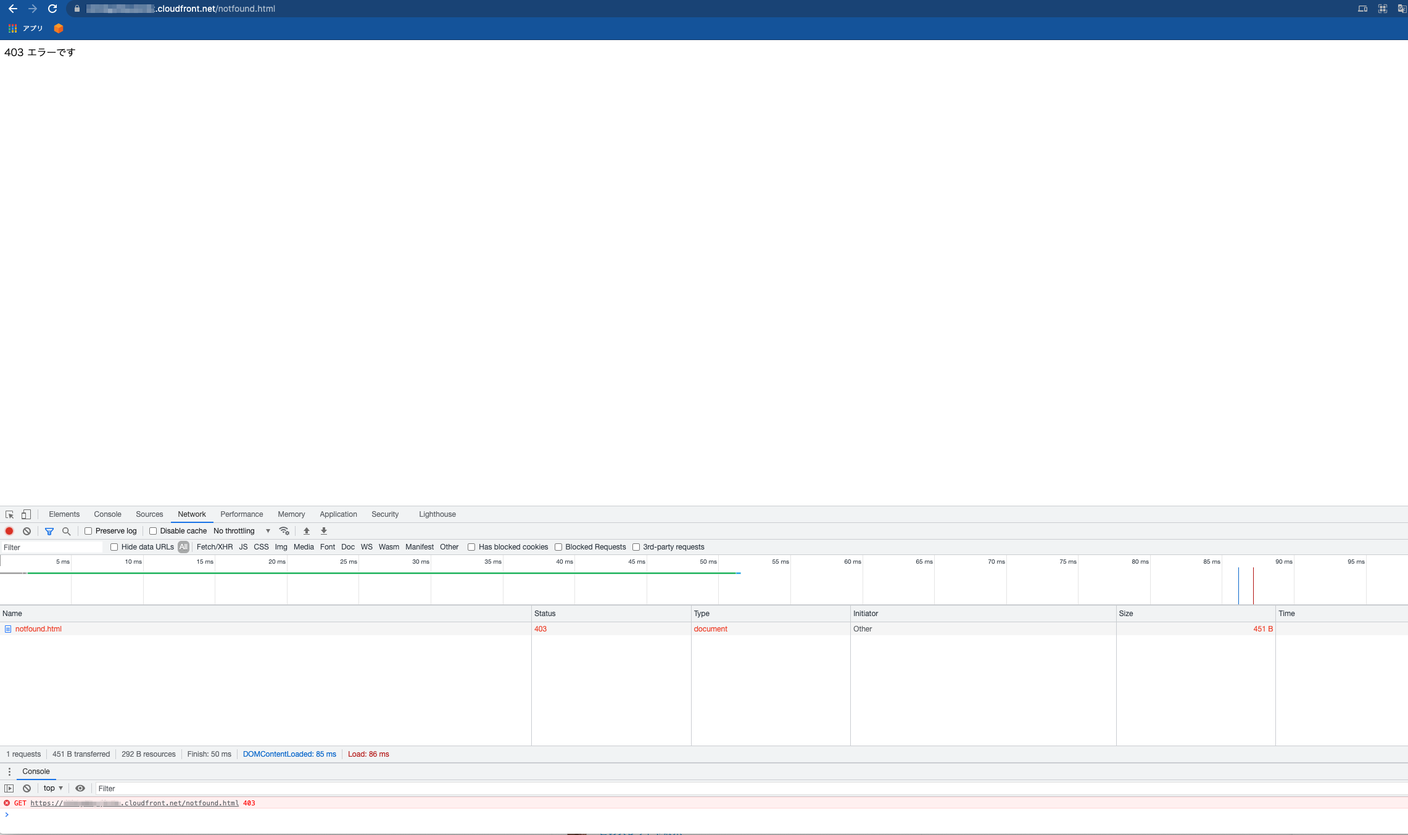
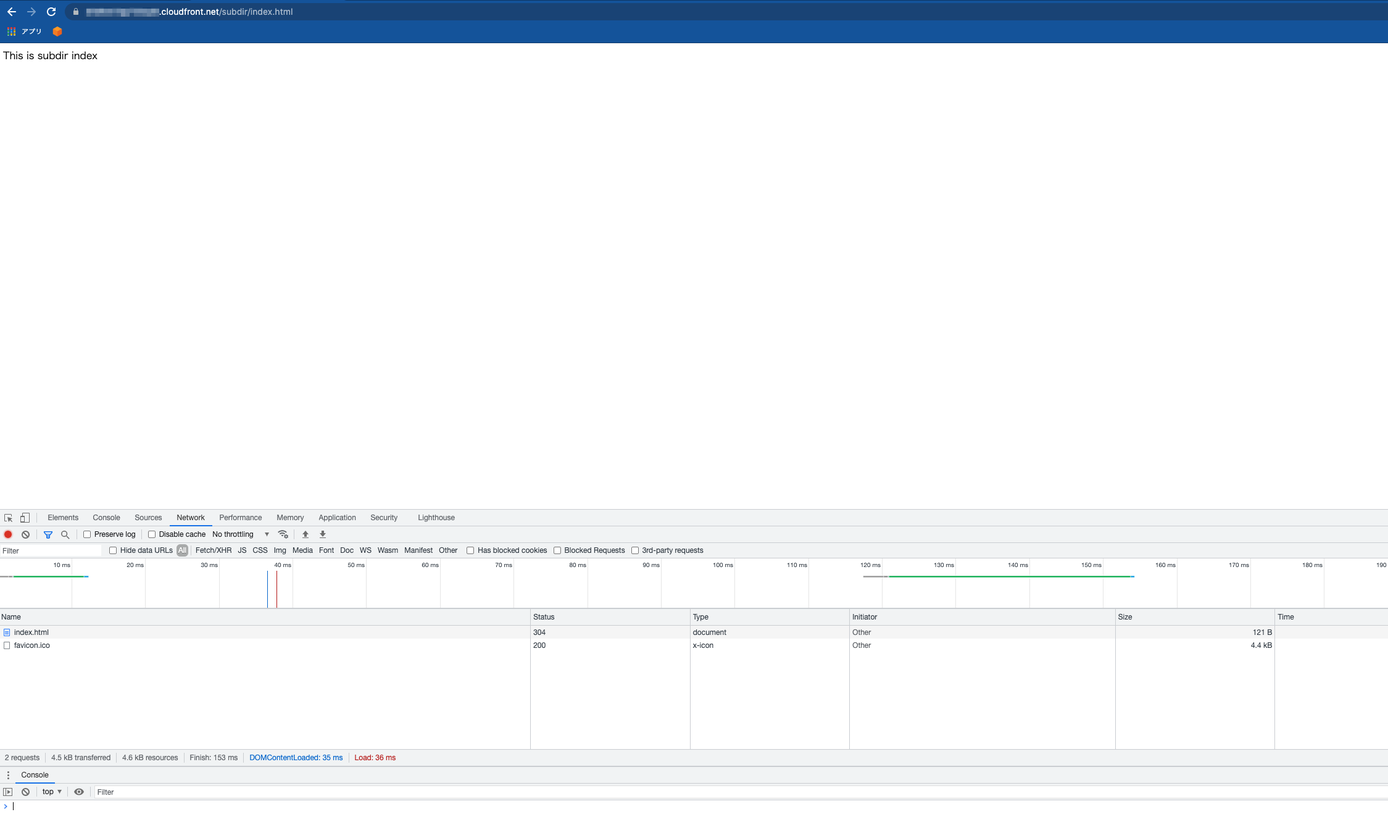
update s3 cloudfront

diff --git a/post/2021/09/05/s3_website_hosting/index.html b/post/2021/09/05/s3_website_hosting/index.html
@@ -9,19 +9,19 @@
     <meta name="author" content="Fuminori Sakamoto">
     <meta name="description" content="公式のナレッジセンターの記事「CloudFront を使用して Amazon S3 でホストされた静的ウェブサイトを公開する」 で紹介されているwebサイト公開手法、 複数あるけど結局どれを採用すれば良いのか？という判断基準を整理したく、纏めてみました。
 外部・viewer -&gt; CloudFront -&gt; S3 バケット（公開物はここに配置） という通信経路を想定しています。
-論点  S3 × CloudFront という組み合わせでwebサイトを公開する場合の、バケットの作成方法の選択肢2通り  webサイトホスティング  エンドポイント = webサイトエンドポイント   非・webサイトホスティング  エンドポイント = REST API エンドポイント 参考: webサイトエンドポイントとREST APIエンドポイントの主な違い     上記2通りのバケット作成方法のメリット・デメリットと、方法選択時の判断基準は何なのか？  機能要件的な観点＝外部・viewerからサイトにアクセスするユーザー観点では、上記2通りでどんな違いが生じうるのか？ 非機能要件的な観点では、上記2通りでどんな違いが生じうるのか？ webサイト公開が目的でも「非・webサイトホスティング を選ぶべき場合」があるなら、それはどういう場合なのか？    先に結論まとめ  外部・viewerからサイトにアクセスするユーザー観点  webサイトホスティングでも非・webサイトホスティングでも同様の事が実現できる   非機能要件的な観点  例えば構築するシステムや開発組織のセキュリティ対応の為、非・webサイトホスティング を選ばざるを得ないケース がある  例: CloudFront -&gt; S3 間の通信を、何らかの事情で HTTPS にしなければならない  webサイトホスティングのバケットへの通信を HTTPS にする事はできないので、非・webサイトホスティング一択となる   例: 何らかの事情でバケットにパブリックアクセスを許可する事が出来ない  webサイトホスティングのバケットはパブリックアクセスの許可が前提となるので、非・webサイトホスティング一択となる     etc    検証内容と前提条件  構築＆検証用の環境のパターンは以下の通り  S3(webサイトホスティング) × CloudFront S3(非・webサイトホスティング) × CloudFront ※ S3バケットのみ というパターンはこの記事では触れない   http methodは参照系のみを想定  つまり、POST, PUT, DELETE 等の更新系methodは想定しない   CloudFrontでは、独自ドメインは利用しない  ユーザーがアクセスするURLは https://自動生成ドメイン文字列.">
+論点  S3 × CloudFront という組み合わせでwebサイトを公開する場合の、バケットの作成方法の選択肢2通り  webサイトホスティング  エンドポイント = webサイトエンドポイント   非・webサイトホスティング  エンドポイント = REST API エンドポイント 参考: webサイトエンドポイントとREST APIエンドポイントの主な違い     上記2通りのバケット作成方法のメリット・デメリットと、作成方法選択時の判断基準は何なのか？  機能要件的な観点＝外部・viewerからサイトにアクセスするユーザー観点では、上記2通りでどんな違いが生じうるのか？ 非機能要件的な観点では、上記2通りでどんな違いが生じうるのか？ webサイト公開が目的でも「非・webサイトホスティング を選ぶべき場合」があるなら、それはどういう場合なのか？    先に結論まとめ  外部・viewerからサイトにアクセスするユーザー観点  一部 webサイトホスティングでのみ可能な機能 も存在しており、これらを利用したいかどうか？が判断材料になり得る  フォルダへのアクセスでもindexドキュメントを設定する事が出来る バケット内のオブジェクトに対して、他バケットや他ドメインへのリダイレクトを設定する事が出来る     非機能要件的な観点  例えば構築するシステムや開発組織のセキュリティ対応の為、非・webサイトホスティング を選ばざるを得ないケース がある  例: CloudFront -&gt; S3 間の通信を、何らかの事情で HTTPS にしなければならない  webサイトホスティングのバケットへの通信を HTTPS にする事はできないので、非・webサイトホスティング一択となる   例: 何らかの事情でバケットにパブリックアクセスを許可する事が出来ない  webサイトホスティングのバケットはパブリックアクセスの許可が前提となるので、非・webサイトホスティング一択となる     etc    検証内容と前提条件  構築＆検証用の環境のパターンは以下の通り  S3(webサイトホスティング) × CloudFront S3(非・webサイトホスティング) × CloudFront ※ S3バケットのみ というパターンはこの記事では触れない   http methodは参照系のみを想定  つまり、POST, PUT, DELETE 等の更新系methodは想定しない   CloudFrontでは、独自ドメインは利用しない  ユーザーがアクセスするURLは https://自動生成ドメイン文字列.">
     <meta name="keywords" content="blog,developer,backpacker,personal">
 
     <meta name="twitter:card" content="summary"/>
-<meta name="twitter:title" content="S3 × CloudFrontでwebサイトを公開する際の構築パターンと判断基準まとめ"/>
+<meta name="twitter:title" content="S3 × CloudFrontでwebサイトを公開する際の、S3バケット設定の判断基準を整理する"/>
 <meta name="twitter:description" content="公式のナレッジセンターの記事「CloudFront を使用して Amazon S3 でホストされた静的ウェブサイトを公開する」 で紹介されているwebサイト公開手法、 複数あるけど結局どれを採用すれば良いのか？という判断基準を整理したく、纏めてみました。
 外部・viewer -&gt; CloudFront -&gt; S3 バケット（公開物はここに配置） という通信経路を想定しています。
-論点  S3 × CloudFront という組み合わせでwebサイトを公開する場合の、バケットの作成方法の選択肢2通り  webサイトホスティング  エンドポイント = webサイトエンドポイント   非・webサイトホスティング  エンドポイント = REST API エンドポイント 参考: webサイトエンドポイントとREST APIエンドポイントの主な違い     上記2通りのバケット作成方法のメリット・デメリットと、方法選択時の判断基準は何なのか？  機能要件的な観点＝外部・viewerからサイトにアクセスするユーザー観点では、上記2通りでどんな違いが生じうるのか？ 非機能要件的な観点では、上記2通りでどんな違いが生じうるのか？ webサイト公開が目的でも「非・webサイトホスティング を選ぶべき場合」があるなら、それはどういう場合なのか？    先に結論まとめ  外部・viewerからサイトにアクセスするユーザー観点  webサイトホスティングでも非・webサイトホスティングでも同様の事が実現できる   非機能要件的な観点  例えば構築するシステムや開発組織のセキュリティ対応の為、非・webサイトホスティング を選ばざるを得ないケース がある  例: CloudFront -&gt; S3 間の通信を、何らかの事情で HTTPS にしなければならない  webサイトホスティングのバケットへの通信を HTTPS にする事はできないので、非・webサイトホスティング一択となる   例: 何らかの事情でバケットにパブリックアクセスを許可する事が出来ない  webサイトホスティングのバケットはパブリックアクセスの許可が前提となるので、非・webサイトホスティング一択となる     etc    検証内容と前提条件  構築＆検証用の環境のパターンは以下の通り  S3(webサイトホスティング) × CloudFront S3(非・webサイトホスティング) × CloudFront ※ S3バケットのみ というパターンはこの記事では触れない   http methodは参照系のみを想定  つまり、POST, PUT, DELETE 等の更新系methodは想定しない   CloudFrontでは、独自ドメインは利用しない  ユーザーがアクセスするURLは https://自動生成ドメイン文字列."/>
+論点  S3 × CloudFront という組み合わせでwebサイトを公開する場合の、バケットの作成方法の選択肢2通り  webサイトホスティング  エンドポイント = webサイトエンドポイント   非・webサイトホスティング  エンドポイント = REST API エンドポイント 参考: webサイトエンドポイントとREST APIエンドポイントの主な違い     上記2通りのバケット作成方法のメリット・デメリットと、作成方法選択時の判断基準は何なのか？  機能要件的な観点＝外部・viewerからサイトにアクセスするユーザー観点では、上記2通りでどんな違いが生じうるのか？ 非機能要件的な観点では、上記2通りでどんな違いが生じうるのか？ webサイト公開が目的でも「非・webサイトホスティング を選ぶべき場合」があるなら、それはどういう場合なのか？    先に結論まとめ  外部・viewerからサイトにアクセスするユーザー観点  一部 webサイトホスティングでのみ可能な機能 も存在しており、これらを利用したいかどうか？が判断材料になり得る  フォルダへのアクセスでもindexドキュメントを設定する事が出来る バケット内のオブジェクトに対して、他バケットや他ドメインへのリダイレクトを設定する事が出来る     非機能要件的な観点  例えば構築するシステムや開発組織のセキュリティ対応の為、非・webサイトホスティング を選ばざるを得ないケース がある  例: CloudFront -&gt; S3 間の通信を、何らかの事情で HTTPS にしなければならない  webサイトホスティングのバケットへの通信を HTTPS にする事はできないので、非・webサイトホスティング一択となる   例: 何らかの事情でバケットにパブリックアクセスを許可する事が出来ない  webサイトホスティングのバケットはパブリックアクセスの許可が前提となるので、非・webサイトホスティング一択となる     etc    検証内容と前提条件  構築＆検証用の環境のパターンは以下の通り  S3(webサイトホスティング) × CloudFront S3(非・webサイトホスティング) × CloudFront ※ S3バケットのみ というパターンはこの記事では触れない   http methodは参照系のみを想定  つまり、POST, PUT, DELETE 等の更新系methodは想定しない   CloudFrontでは、独自ドメインは利用しない  ユーザーがアクセスするURLは https://自動生成ドメイン文字列."/>
 
-    <meta property="og:title" content="S3 × CloudFrontでwebサイトを公開する際の構築パターンと判断基準まとめ" />
+    <meta property="og:title" content="S3 × CloudFrontでwebサイトを公開する際の、S3バケット設定の判断基準を整理する" />
 <meta property="og:description" content="公式のナレッジセンターの記事「CloudFront を使用して Amazon S3 でホストされた静的ウェブサイトを公開する」 で紹介されているwebサイト公開手法、 複数あるけど結局どれを採用すれば良いのか？という判断基準を整理したく、纏めてみました。
 外部・viewer -&gt; CloudFront -&gt; S3 バケット（公開物はここに配置） という通信経路を想定しています。
-論点  S3 × CloudFront という組み合わせでwebサイトを公開する場合の、バケットの作成方法の選択肢2通り  webサイトホスティング  エンドポイント = webサイトエンドポイント   非・webサイトホスティング  エンドポイント = REST API エンドポイント 参考: webサイトエンドポイントとREST APIエンドポイントの主な違い     上記2通りのバケット作成方法のメリット・デメリットと、方法選択時の判断基準は何なのか？  機能要件的な観点＝外部・viewerからサイトにアクセスするユーザー観点では、上記2通りでどんな違いが生じうるのか？ 非機能要件的な観点では、上記2通りでどんな違いが生じうるのか？ webサイト公開が目的でも「非・webサイトホスティング を選ぶべき場合」があるなら、それはどういう場合なのか？    先に結論まとめ  外部・viewerからサイトにアクセスするユーザー観点  webサイトホスティングでも非・webサイトホスティングでも同様の事が実現できる   非機能要件的な観点  例えば構築するシステムや開発組織のセキュリティ対応の為、非・webサイトホスティング を選ばざるを得ないケース がある  例: CloudFront -&gt; S3 間の通信を、何らかの事情で HTTPS にしなければならない  webサイトホスティングのバケットへの通信を HTTPS にする事はできないので、非・webサイトホスティング一択となる   例: 何らかの事情でバケットにパブリックアクセスを許可する事が出来ない  webサイトホスティングのバケットはパブリックアクセスの許可が前提となるので、非・webサイトホスティング一択となる     etc    検証内容と前提条件  構築＆検証用の環境のパターンは以下の通り  S3(webサイトホスティング) × CloudFront S3(非・webサイトホスティング) × CloudFront ※ S3バケットのみ というパターンはこの記事では触れない   http methodは参照系のみを想定  つまり、POST, PUT, DELETE 等の更新系methodは想定しない   CloudFrontでは、独自ドメインは利用しない  ユーザーがアクセスするURLは https://自動生成ドメイン文字列." />
+論点  S3 × CloudFront という組み合わせでwebサイトを公開する場合の、バケットの作成方法の選択肢2通り  webサイトホスティング  エンドポイント = webサイトエンドポイント   非・webサイトホスティング  エンドポイント = REST API エンドポイント 参考: webサイトエンドポイントとREST APIエンドポイントの主な違い     上記2通りのバケット作成方法のメリット・デメリットと、作成方法選択時の判断基準は何なのか？  機能要件的な観点＝外部・viewerからサイトにアクセスするユーザー観点では、上記2通りでどんな違いが生じうるのか？ 非機能要件的な観点では、上記2通りでどんな違いが生じうるのか？ webサイト公開が目的でも「非・webサイトホスティング を選ぶべき場合」があるなら、それはどういう場合なのか？    先に結論まとめ  外部・viewerからサイトにアクセスするユーザー観点  一部 webサイトホスティングでのみ可能な機能 も存在しており、これらを利用したいかどうか？が判断材料になり得る  フォルダへのアクセスでもindexドキュメントを設定する事が出来る バケット内のオブジェクトに対して、他バケットや他ドメインへのリダイレクトを設定する事が出来る     非機能要件的な観点  例えば構築するシステムや開発組織のセキュリティ対応の為、非・webサイトホスティング を選ばざるを得ないケース がある  例: CloudFront -&gt; S3 間の通信を、何らかの事情で HTTPS にしなければならない  webサイトホスティングのバケットへの通信を HTTPS にする事はできないので、非・webサイトホスティング一択となる   例: 何らかの事情でバケットにパブリックアクセスを許可する事が出来ない  webサイトホスティングのバケットはパブリックアクセスの許可が前提となるので、非・webサイトホスティング一択となる     etc    検証内容と前提条件  構築＆検証用の環境のパターンは以下の通り  S3(webサイトホスティング) × CloudFront S3(非・webサイトホスティング) × CloudFront ※ S3バケットのみ というパターンはこの記事では触れない   http methodは参照系のみを想定  つまり、POST, PUT, DELETE 等の更新系methodは想定しない   CloudFrontでは、独自ドメインは利用しない  ユーザーがアクセスするURLは https://自動生成ドメイン文字列." />
 <meta property="og:type" content="article" />
 <meta property="og:url" content="https://horizoon.jp/post/2021/09/05/s3_website_hosting/" /><meta property="article:section" content="post" />
 <meta property="article:published_time" content="2021-09-05T15:47:00+09:00" />
@@ -30,7 +30,7 @@
 
 
     <title>
-  S3 × CloudFrontでwebサイトを公開する際の構築パターンと判断基準まとめ · horizoon
+  S3 × CloudFrontでwebサイトを公開する際の、S3バケット設定の判断基準を整理する · horizoon
 </title>
 
     
@@ -127,7 +127,7 @@
   <section class="container page">
   <article>
     <header>
-      <h1>S3 × CloudFrontでwebサイトを公開する際の構築パターンと判断基準まとめ</h1>
+      <h1>S3 × CloudFrontでwebサイトを公開する際の、S3バケット設定の判断基準を整理する</h1>
     </header>
 
     <p>公式のナレッジセンターの記事「<a href="https://aws.amazon.com/jp/premiumsupport/knowledge-center/cloudfront-serve-static-website/">CloudFront を使用して Amazon S3 でホストされた静的ウェブサイトを公開する</a>」 で紹介されているwebサイト公開手法、
@@ -150,7 +150,7 @@
 </li>
 </ol>
 </li>
-<li>上記2通りのバケット作成方法のメリット・デメリットと、方法選択時の判断基準は何なのか？
+<li>上記2通りのバケット作成方法のメリット・デメリットと、作成方法選択時の判断基準は何なのか？
 <ul>
 <li>機能要件的な観点＝外部・viewerからサイトにアクセスするユーザー観点では、上記2通りでどんな違いが生じうるのか？</li>
 <li>非機能要件的な観点では、上記2通りでどんな違いが生じうるのか？</li>
@@ -162,7 +162,12 @@
 <ul>
 <li>外部・viewerからサイトにアクセスするユーザー観点
 <ul>
-<li>webサイトホスティングでも非・webサイトホスティングでも同様の事が実現できる</li>
+<li>一部 <strong>webサイトホスティングでのみ可能な機能 も存在しており</strong>、これらを利用したいかどうか？が判断材料になり得る
+<ul>
+<li><a href="https://docs.aws.amazon.com/ja_jp/AmazonS3/latest/userguide/IndexDocumentSupport.html#IndexDocumentsandFolders">フォルダへのアクセスでもindexドキュメントを設定する事が出来る</a></li>
+<li><a href="https://docs.aws.amazon.com/ja_jp/AmazonS3/latest/userguide/how-to-page-redirect.html">バケット内のオブジェクトに対して、他バケットや他ドメインへのリダイレクトを設定する事が出来る</a></li>
+</ul>
+</li>
 </ul>
 </li>
 <li>非機能要件的な観点
@@ -171,12 +176,12 @@
 <ul>
 <li>例: <code>CloudFront -&gt; S3</code> 間の通信を、何らかの事情で HTTPS にしなければならない
 <ul>
-<li>webサイトホスティングのバケットへの通信を HTTPS にする事はできないので、非・webサイトホスティング一択となる</li>
+<li><a href="https://docs.aws.amazon.com/ja_jp/AmazonS3/latest/userguide/WebsiteEndpoints.html">webサイトホスティングのバケットへの通信を HTTPS にする事はできない</a>ので、非・webサイトホスティング一択となる</li>
 </ul>
 </li>
 <li>例: 何らかの事情でバケットにパブリックアクセスを許可する事が出来ない
 <ul>
-<li>webサイトホスティングのバケットはパブリックアクセスの許可が前提となるので、非・webサイトホスティング一択となる</li>
+<li><a href="https://docs.aws.amazon.com/ja_jp/AmazonS3/latest/userguide/WebsiteAccessPermissionsReqd.html#block-public-access-static-site">webサイトホスティングのバケットはパブリックアクセスの許可が前提となる</a>ので、非・webサイトホスティング一択となる</li>
 </ul>
 </li>
 </ul>
@@ -206,13 +211,12 @@
 </li>
 <li><code>外部・viewer -&gt; CloudFront</code> 間の通信は、（<a href="https://aws.amazon.com/jp/premiumsupport/knowledge-center/cloudfront-serve-static-website/#Using_a_REST_API_endpoint_as_the_origin.2C_with_access_restricted_by_an_OAI">公式のサポートサイトでも触れられている</a>が）当然 <a href="https://docs.aws.amazon.com/ja_jp/AmazonCloudFront/latest/DeveloperGuide/using-https-viewers-to-cloudfront.html">HTTPS を必須とする</a>
 <ul>
-<li>S3がwebサイトエンドポイントだと<a href="https://docs.aws.amazon.com/ja_jp/AmazonS3/latest/userguide/WebsiteEndpoints.html#website-endpoint-examples">そのS3自身はHTTP <strong>しか使えない</strong></a>ので、<a href="https://docs.aws.amazon.com/ja_jp/AmazonS3/latest/userguide/WebsiteEndpoints.html">webサイトエンドポイントを使っていて且つ外部からのアクセスで HTTPS を必須にしたければ、必ずその前段にCloudFrontを <strong>使用しなければならない</strong></a></li>
-<li>※逆に言うと、非・webサイトエンドポイントであれば「S3単独使用で且つ HTTPS アクセス必須化」もやろうと思えば可能ということ</li>
+<li><a href="https://docs.aws.amazon.com/ja_jp/AmazonS3/latest/userguide/WebsiteEndpoints.html">S3がwebサイトエンドポイントだと <strong>HTTPしか使えない</strong> ので、webサイトエンドポイントを使っていて且つ外部からのアクセスで HTTPS を必須にしたければ、必ずその前段にCloudFrontを <strong>使用しなければならない</strong></a></li>
 </ul>
 </li>
 <li><code>CloudFront -&gt; S3バケット</code> 間の通信を HTTP とするか HTTPS とするかは、バケットの制約に準拠する
 <ul>
-<li>webサイトエンドポイント = <a href="https://docs.aws.amazon.com/ja_jp/AmazonS3/latest/userguide/WebsiteEndpoints.html#website-endpoint-examples">HTTP <strong>しか使えない</strong></a></li>
+<li>webサイトエンドポイント = <a href="https://docs.aws.amazon.com/ja_jp/AmazonS3/latest/userguide/WebsiteEndpoints.html">HTTP <strong>しか使えない</strong></a></li>
 <li>非・webサイトエンドポイント = <a href="https://docs.aws.amazon.com/ja_jp/AmazonCloudFront/latest/DeveloperGuide/using-https-cloudfront-to-s3-origin.html">バケットを S3オリジン として扱い、HTTPS を必須化</a></li>
 </ul>
 </li>
@@ -244,7 +248,7 @@
 </li>
 <li><code>server_side_encryption_configuration</code> で <code>AES256</code> な<a href="https://docs.aws.amazon.com/ja_jp/AmazonS3/latest/userguide/serv-side-encryption.html">サーバー側暗号化</a>を有効にしておく
 <ul>
-<li>※<a href="https://dev.classmethod.jp/articles/behavior-when-s3-cannot-be-decrypted/#toc-11">サーバーサイド暗号化したS3をwebサイトホスティングで公開すると400エラーになる と言及されている記事</a> がありますが、上記内容でサーバーサイド暗号化したバケット＆オブジェクトに <code>Principal: &quot;*&quot;</code> に <code>s3:GetObject</code> を許可するバケットポリシーを設定した上で <code>http://該当バケットのwebサイトエンドポイント/存在するhtmlファイル</code> というURLでアクセスしても、手元ではエラーにはならず正常表示されました（記事はKMS暗号化前提で記載されている？）</li>
+<li>※サーバーサイド暗号化したS3をwebサイトホスティングで公開するとアクセス時にエラーになるという言及を見掛けましたが、<code>Principal: &quot;*&quot;</code> に対して <code>s3:GetObject</code> を許可するバケットポリシーを設定した上で <code>http://該当バケットのwebサイトエンドポイント/存在するhtmlファイル</code> というURLでアクセスしても、手元ではエラーにはならず正常表示されました</li>
 </ul>
 </li>
 <li>これら以外は任意で設定
@@ -256,7 +260,7 @@
 <p>そして、このバケットの前段に配置するCloudFrontを定義します。</p>
 <ol>
 <li><code>default_root_object</code> を定義して <code>https://cloudfrontドメイン</code> へのアクセス時はindex.htmlを表示する</li>
-<li>origin の <code>domain_name</code> は <code>bucket_domain_name</code> ではなく <code>bucket_regional_domain_name</code> を使って、<a href="https://aws.amazon.com/jp/premiumsupport/knowledge-center/s3-http-307-response/">307（一時的なリダイレクト）の発生</a>を回避</li>
+<li>origin の <code>domain_name</code> は <code>bucket_domain_name</code> でも <code>bucket_regional_domain_name</code> でもなく <code>website_endpoint</code> を指定する。これにより <strong><code>https://cloudfrontドメイン/subdir/</code> のようなフォルダへのアクセスでも <code>https://cloudfrontドメイン/subdir/index.html</code> というindexドキュメントの表示が可能となる</strong></li>
 <li>origin のconfigは <code>custom_origin_config</code> として定義し、<code>origin_protocol_policy</code> は（httpのみが利用可能なwebサイトホスティングなので） <code>&quot;http-only&quot;</code> を指定</li>
 <li><code>custom_error_response</code> により、エラー時にS3が（デフォルトで）返してくるxmlエラーをhtmlに変換するようにしておく</li>
 <li>これら以外は任意で設定
@@ -282,6 +286,8 @@
 </span><span style="margin-right:0.4em;padding:0 0.4em 0 0.4em;color:#7f7f7f"> 8
 </span><span style="margin-right:0.4em;padding:0 0.4em 0 0.4em;color:#7f7f7f"> 9
 </span><span style="margin-right:0.4em;padding:0 0.4em 0 0.4em;color:#7f7f7f">10
+</span><span style="margin-right:0.4em;padding:0 0.4em 0 0.4em;color:#7f7f7f">11
+</span><span style="margin-right:0.4em;padding:0 0.4em 0 0.4em;color:#7f7f7f">12
 </span></code></pre></td>
 <td style="vertical-align:top;padding:0;margin:0;border:0;;width:100%">
 <pre tabindex="0" style="background-color:#f0f0f0;-moz-tab-size:4;-o-tab-size:4;tab-size:4"><code class="language-fallback" data-lang="fallback">.
@@ -293,7 +299,9 @@
 │   ├── logo.xxxxxxxx.png
 │   └── vendor.xxxxxxxx.js
 ├── favicon.ico
-└── index.html
+├── index.html
+└── subdir
+    └── index.html
 </code></pre></td></tr></table>
 </div>
 </div><h3 id="s3非webサイトホスティング--cloudfront">S3(非・webサイトホスティング) × CloudFront</h3>
@@ -330,11 +338,19 @@
 <h3 id="2-https自動生成ドメイン文字列cloudfrontnet-へのアクセス">2. <code>https://自動生成ドメイン文字列.cloudfront.net/</code> へのアクセス</h3>
 <p>webサイト or 非・webサイトに関わらず、ドメイン名のみのアクセス時はCloudFrontの <code>default_root_object</code> 設定が有効であることを確認したい、という意図でしたが、これも想定通りでした。</p>
 <p><img src="https://horizoon.jp/img/s3_website_hosting/02.png" alt="02"></p>
-<h3 id="3-https自動生成ドメイン文字列cloudfrontnet存在しないファイル名-でアクセス">3. <code>https://自動生成ドメイン文字列.cloudfront.net/存在しないファイル名</code> でアクセス</h3>
+<h3 id="3-https自動生成ドメイン文字列cloudfrontnetsubdir存在するファイル-へのアクセス">3. <code>https://自動生成ドメイン文字列.cloudfront.net/subdir/存在するファイル</code> へのアクセス</h3>
+<p>これもwebサイト or 非・webサイト共に同じ結果が表示されます。フォルダ配下であっても存在するファイルのフルパスURLを指定すれば挙動に違いはありません。</p>
+<p><img src="https://horizoon.jp/img/s3_website_hosting/03.png" alt="03"></p>
+<h3 id="4-https自動生成ドメイン文字列cloudfrontnetsubdir-へのアクセス">4. <code>https://自動生成ドメイン文字列.cloudfront.net/subdir/</code> へのアクセス</h3>
+<p>フォルダへのアクセスは、<strong>webサイトの場合のみ、フォルダ配下のindexドキュメント表示が機能します</strong>。これはCloudFrontのorigin設定で <code>domain_name</code> にS3バケットの <code>website_endpoint</code> プロパティを設定する事で実現できています。</p>
+<p><img src="https://horizoon.jp/img/s3_website_hosting/04-web.png" alt="04-web"></p>
+<p>逆に <strong>非・webサイトではエラー（= 403）となり、webサイトの場合と挙動に差異が発生します。</strong></p>
+<p><img src="https://horizoon.jp/img/s3_website_hosting/04-notweb.png" alt="04-notweb"></p>
+<h3 id="5-https自動生成ドメイン文字列cloudfrontnet存在しないファイル名-でアクセス">5. <code>https://自動生成ドメイン文字列.cloudfront.net/存在しないファイル名</code> でアクセス</h3>
 <p>存在しないファイルへのアクセスは、バケットポリシーで s3:ListBucket を許可していないと403エラーとなります。
 デフォルトではその結果はhtmlではなくxmlで返ってくるので、CloudFrontの <code>custom_error_response</code> 設定でhtmlを返すよう設定してあります。</p>
 <p>デフォルトの挙動と<code>custom_error_response</code> によるエラーのカスタマイズについては、webサイト or 非・webサイトに関わらず同様です。つまり <strong>存在しないファイルへアクセスされた際のエラー処理も、webサイトホスティング or 非・webサイトホスティングで同じ機能を実現できる</strong> という事です。</p>
-<p><img src="https://horizoon.jp/img/s3_website_hosting/03.png" alt="03"></p>
+<p><img src="https://horizoon.jp/img/s3_website_hosting/05.png" alt="05"></p>
 <h4 id="補足-custom_error_response-の設定が無いとエラー表示はどうなるのか">補足: <code>custom_error_response</code> の設定が無いとエラー表示はどうなるのか？</h4>
 <p>webサイトor非・webサイトどちらのケースでも、<code>custom_error_response</code> 設定がない場合、s3:ListBucket バケットポリシーの有無でエラー表示の挙動が変わります</p>
 <ul>
@@ -364,13 +380,12 @@
 <p>※ちなみに、「<code>custom_error_response</code> 設定がある、且つ、バケットポリシーで s3:ListBucket が許可されている」という場合であれば、<code>custom_error_response</code> で404エラーを独自エラーに変換（して詳細を隠蔽する）という手段も可能と言えば可能です。</p>
 <h3 id="補足-webサイトエンドポイントで-httpバケットのエンドポイント存在するファイル名-でバケットへの直アクセスを試みるとどうなるか">補足: webサイトエンドポイントで <code>http://バケットのエンドポイント/存在するファイル名</code> でバケットへの直アクセスを試みるとどうなるか？</h3>
 <p>このパターンのアクセスを試してみると、&ldquo;S3がデフォルトで返す、403を表すHTML&rdquo; が表示され、アクセス拒否自体は成功している事が分かります。</p>
-<p><img src="https://horizoon.jp/img/s3_website_hosting/03-hosoku-bucketerror.png" alt="03-hosoku-bucketerror"></p>
+<p><img src="https://horizoon.jp/img/s3_website_hosting/05-hosoku-bucketerror.png" alt="05-hosoku-bucketerror"></p>
 <p>今回構築したwebサイトホスティング用のバケットでも<a href="https://docs.aws.amazon.com/ja_jp/AmazonS3/latest/userguide/CustomErrorDocSupport.html">カスタムエラードキュメントを設定</a>していたものの、<strong>バケットポリシーでCloudFrontからのアクセスだけを許可していると、バケットへの直アクセス時はカスタムエラードキュメントへのアクセスも拒否される事になり、結果としてS3のデフォルトエラー画面が表示される</strong> という挙動になります。</p>
 <h2 id="改めて結論まとめ">改めて結論まとめ</h2>
 <ul>
 <li>webサイトホスティング or 非・webサイトホスティングどちらを選んでも差が無い観点
 <ul>
-<li>正常系/異常系問わず、サイトアクセス時の（見た目的な意味での）挙動は、設定次第で揃える事は可能</li>
 <li>S3バケットへの直接アクセスを抑止し、CloudFrontからのみアクセス可能にする
 <ul>
 <li>webサイトホスティング：User-AgentがCloudFrontの場合だけAllowするバケットポリシーを設定</li>
@@ -382,6 +397,12 @@
 <li>webサイトホスティング or 非・webサイトホスティングに関わらず、<a href="https://docs.aws.amazon.com/ja_jp/AmazonCloudFront/latest/DeveloperGuide/using-https-viewers-to-cloudfront.html">同じ手順で設定可能</a></li>
 </ul>
 </li>
+</ul>
+</li>
+<li><strong>webサイトホスティングでのみ可能な機能</strong> も存在しており、これらを利用したいかどうか？という観点
+<ul>
+<li><a href="https://docs.aws.amazon.com/ja_jp/AmazonS3/latest/userguide/IndexDocumentSupport.html#IndexDocumentsandFolders">フォルダへのアクセスでもindexドキュメントを設定する事が出来る</a></li>
+<li><a href="https://docs.aws.amazon.com/ja_jp/AmazonS3/latest/userguide/how-to-page-redirect.html">バケット内のオブジェクトに対して、他バケットや他ドメインへのリダイレクトを設定する事が出来る</a></li>
 </ul>
 </li>
 <li>非・webサイトホスティング を <strong>選ばざるを得ない</strong> 観点
@@ -405,7 +426,7 @@
 </ul>
 </li>
 </ul>
-<p><strong>セキュリティをより強固にしたいという観点では、非・webサイトエンドポイントの方が有利</strong> と言えるので、webサイト or 非・webサイトどちらを選ぶか決め手に欠ける&hellip;というシーンでは非・webサイトを選んでおく、という判断基準もアリかも知れません。</p>
+<p><strong>セキュリティを重視したい場合は非・webサイトエンドポイントの方が有利</strong> と言えるので、「webサイトエンドポイント or 非・webサイトエンドポイントどちらを選ぶか決め手に欠けて、webサイトエンドポイントでしか実現できない機能を使いたいという訳でもない&hellip;」ようなケースであれば、非・webサイトエンドポイントを選択するのが無難かもしれません。</p>
 <h2 id="ブックマーク">ブックマーク</h2>
 <ul>
 <li><a href="https://dev.classmethod.jp/articles/cloudfront-with-s3-hosting/">Amazon S3 + Amazon CloudFrontでWebサイトを構築する際にS3静的Webサイトホスティングを採用する理由 | DevelopersIO</a></li>
@@ -413,6 +434,7 @@
 <li><a href="https://dev.classmethod.jp/articles/s3-cloudfront-with-oai-by-cloudformation/">CloudFormation で OAI を使った CloudFront + S3 の静的コンテンツ配信インフラを作る | DevelopersIO</a></li>
 <li><a href="https://qiita.com/sakuraya/items/add2cb7ced954215fb03">CloudFront×S3で403 Access Deniedが出るときに確認すべきこと - Qiita</a></li>
 <li><a href="https://medium.com/@joecrobak/production-deploy-of-a-single-page-app-using-s3-and-cloudfront-d4aa2d170aa3">Production deploy of a Single Page App using S3, CloudFront, and CloudFormation | by Joe Crobak | Medium</a></li>
+<li><a href="https://qiita.com/naoiwata/items/3c6626cbeacbb44d4aa8">CloudFront に S3 bucket のサブディレクトリパスのコンテンツを参照させる - Qiita</a></li>
 </ul>
 
   </article>

diff --git a/categories/aws/index.html b/categories/aws/index.html
@@ -122,7 +122,7 @@
     
     <li>
       <span class="date">2021-09-05</span>
-      <a class="title" href="https://horizoon.jp/post/2021/09/05/s3_website_hosting/">S3 × CloudFrontでwebサイトを公開する際の構築パターンと判断基準まとめ</a>
+      <a class="title" href="https://horizoon.jp/post/2021/09/05/s3_website_hosting/">S3 × CloudFrontでwebサイトを公開する際の、S3バケット設定の判断基準を整理する</a>
     </li>
     
     <li>

diff --git a/post/index.html b/post/index.html
@@ -122,7 +122,7 @@
     
     <li>
       <span class="date">2021-09-05</span>
-      <a class="title" href="https://horizoon.jp/post/2021/09/05/s3_website_hosting/">S3 × CloudFrontでwebサイトを公開する際の構築パターンと判断基準まとめ</a>
+      <a class="title" href="https://horizoon.jp/post/2021/09/05/s3_website_hosting/">S3 × CloudFrontでwebサイトを公開する際の、S3バケット設定の判断基準を整理する</a>
     </li>
     
     <li>

diff --git a/categories/cloudfront/index.html b/categories/cloudfront/index.html
@@ -122,7 +122,7 @@
     
     <li>
       <span class="date">2021-09-05</span>
-      <a class="title" href="https://horizoon.jp/post/2021/09/05/s3_website_hosting/">S3 × CloudFrontでwebサイトを公開する際の構築パターンと判断基準まとめ</a>
+      <a class="title" href="https://horizoon.jp/post/2021/09/05/s3_website_hosting/">S3 × CloudFrontでwebサイトを公開する際の、S3バケット設定の判断基準を整理する</a>
     </li>
     
   </ul>

diff --git a/categories/hosting/index.html b/categories/hosting/index.html
@@ -122,7 +122,7 @@
     
     <li>
       <span class="date">2021-09-05</span>
-      <a class="title" href="https://horizoon.jp/post/2021/09/05/s3_website_hosting/">S3 × CloudFrontでwebサイトを公開する際の構築パターンと判断基準まとめ</a>
+      <a class="title" href="https://horizoon.jp/post/2021/09/05/s3_website_hosting/">S3 × CloudFrontでwebサイトを公開する際の、S3バケット設定の判断基準を整理する</a>
     </li>
     
   </ul>

diff --git a/categories/s3/index.html b/categories/s3/index.html
@@ -122,7 +122,7 @@
     
     <li>
       <span class="date">2021-09-05</span>
-      <a class="title" href="https://horizoon.jp/post/2021/09/05/s3_website_hosting/">S3 × CloudFrontでwebサイトを公開する際の構築パターンと判断基準まとめ</a>
+      <a class="title" href="https://horizoon.jp/post/2021/09/05/s3_website_hosting/">S3 × CloudFrontでwebサイトを公開する際の、S3バケット設定の判断基準を整理する</a>
     </li>
     
   </ul>

diff --git a/categories/terraform/index.html b/categories/terraform/index.html
@@ -122,7 +122,7 @@
     
     <li>
       <span class="date">2021-09-05</span>
-      <a class="title" href="https://horizoon.jp/post/2021/09/05/s3_website_hosting/">S3 × CloudFrontでwebサイトを公開する際の構築パターンと判断基準まとめ</a>
+      <a class="title" href="https://horizoon.jp/post/2021/09/05/s3_website_hosting/">S3 × CloudFrontでwebサイトを公開する際の、S3バケット設定の判断基準を整理する</a>
     </li>
     
   </ul>
